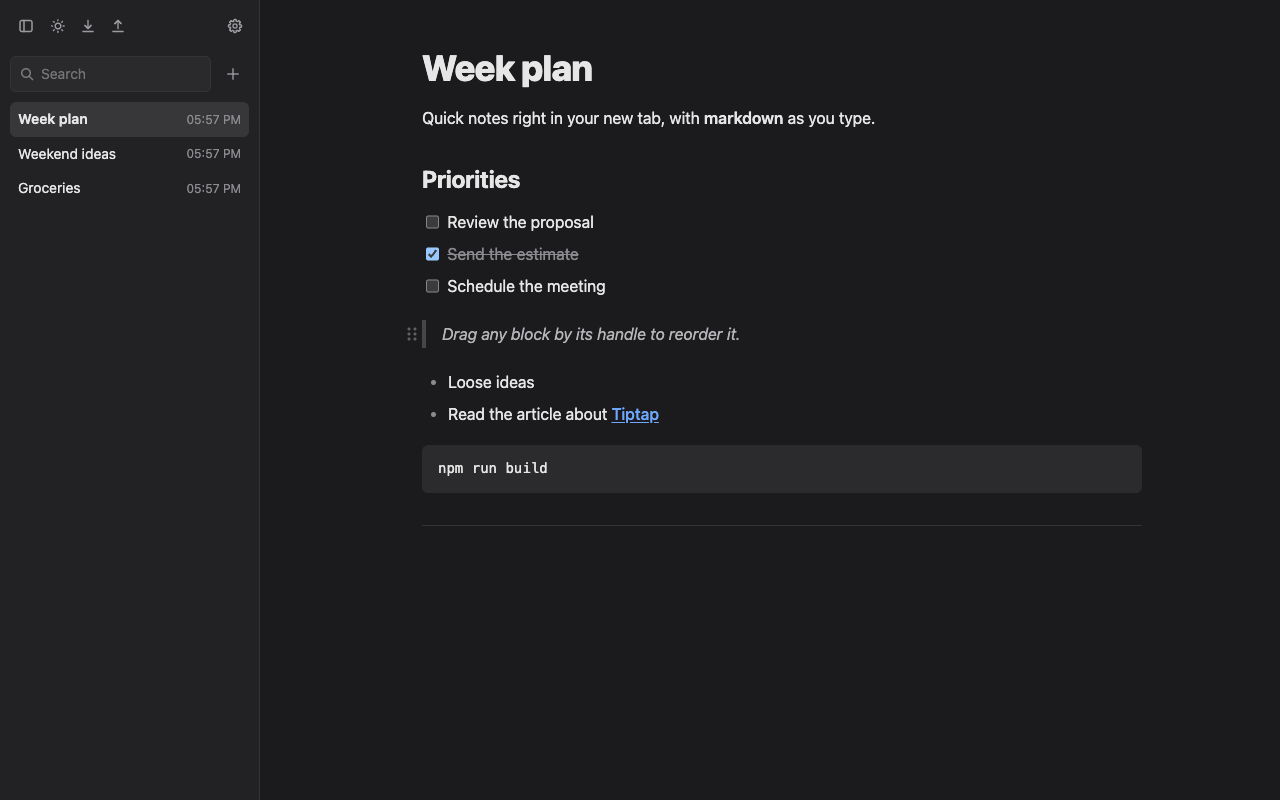
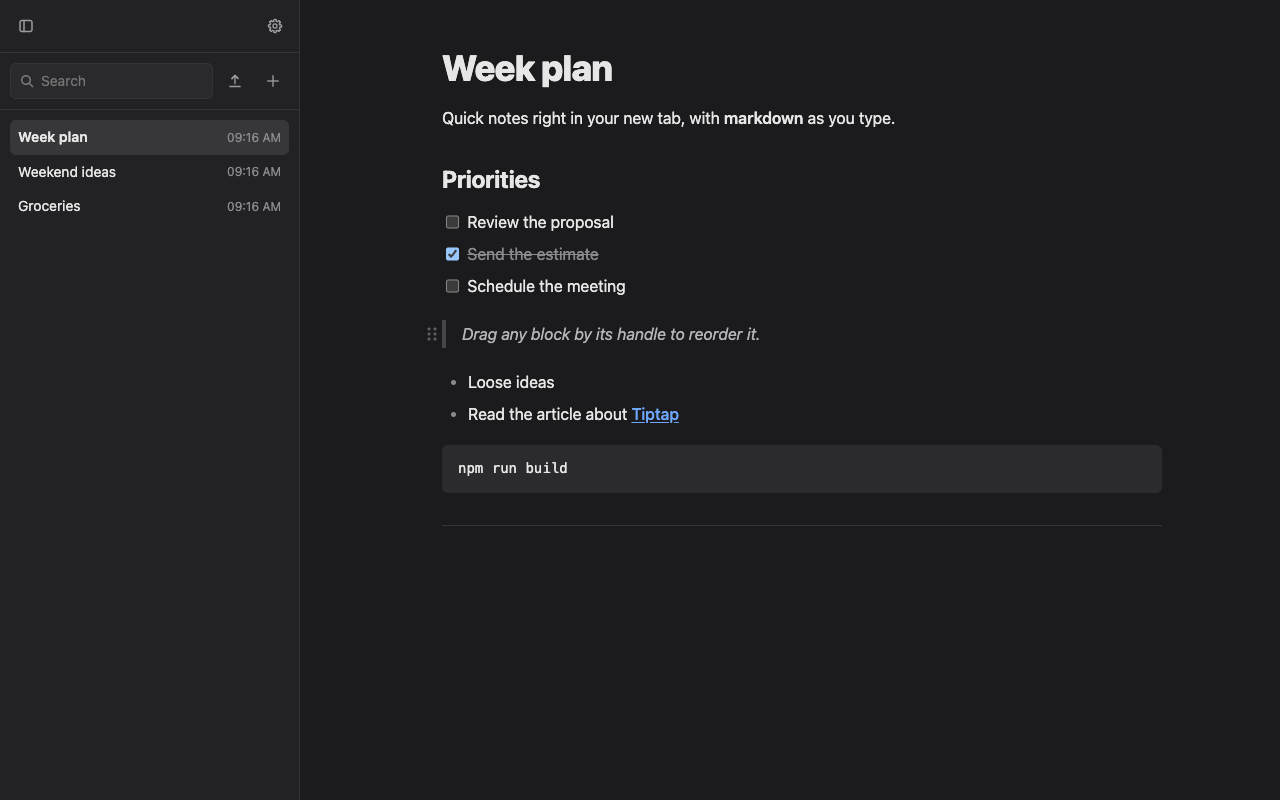
Regenerate README and store screenshots with the new sidebar and Settings

diff --git a/PLAN.md b/PLAN.md
@@ -65,4 +65,4 @@ Stages ordered by risk: whatever could invalidate the idea comes first.
 ## Stage 13: Import a file as a note; backup only in Settings
 - **Deliverable:** the sidebar's backup icons are removed; an import icon to the left of "New note" imports a `.md` or `.txt` file as a new note (markdown parsed for `.md`, one paragraph per line for `.txt`, automatic title) and opens it. Backup export and import stay only in Settings. In Settings, manual and automatic backup become a single "Backup" section (the interval label reads "Automatic backup" instead of "Back up"), with shorter explanations in a slightly smaller font. Sidebar layout: 300 px wide, no theme button (theme only in Settings), the search row between two dividers.
 - **How to verify:** `npm test` passes (markdown file with every block type, `.txt` lines, Windows line breaks, empty file, markdown the editor can't hold falls back to text). In Chrome: the sidebar top shows only sidebar, theme and gear, with import next to New note; the sidebar is 300 px wide; importing a `.md` and a `.txt` creates and opens the note, which shows up in the list and survives a reload; an empty file shows a message and creates nothing; Settings export/import and the interval still work; screenshot of the new Settings in both themes; earlier E2E scripts pass.
-- **Status:** implemented (`npm test`: 88 tests ok, 8 new for file import; in headless Chrome with the extension: sidebar top has only import and settings, `.md` and `.txt` become notes that open, show in the list and survive a reload, an empty file shows a message and creates nothing, Settings has one Backup section with smaller hints, export and the interval still work — 16 checks ok; screenshots in both themes; earlier E2E scripts pass); waiting for the user's test in Chrome.
+- **Status:** implemented (`npm test`: 88 tests ok, 8 new for file import; in headless Chrome with the extension: sidebar top has only import and settings, `.md` and `.txt` become notes that open, show in the list and survive a reload, an empty file shows a message and creates nothing, Settings has one Backup section with smaller hints, export and the interval still work — 16 checks ok; screenshots in both themes; earlier E2E scripts pass; README and store screenshots regenerated with the new layout, both languages); waiting for the user's test in Chrome.
